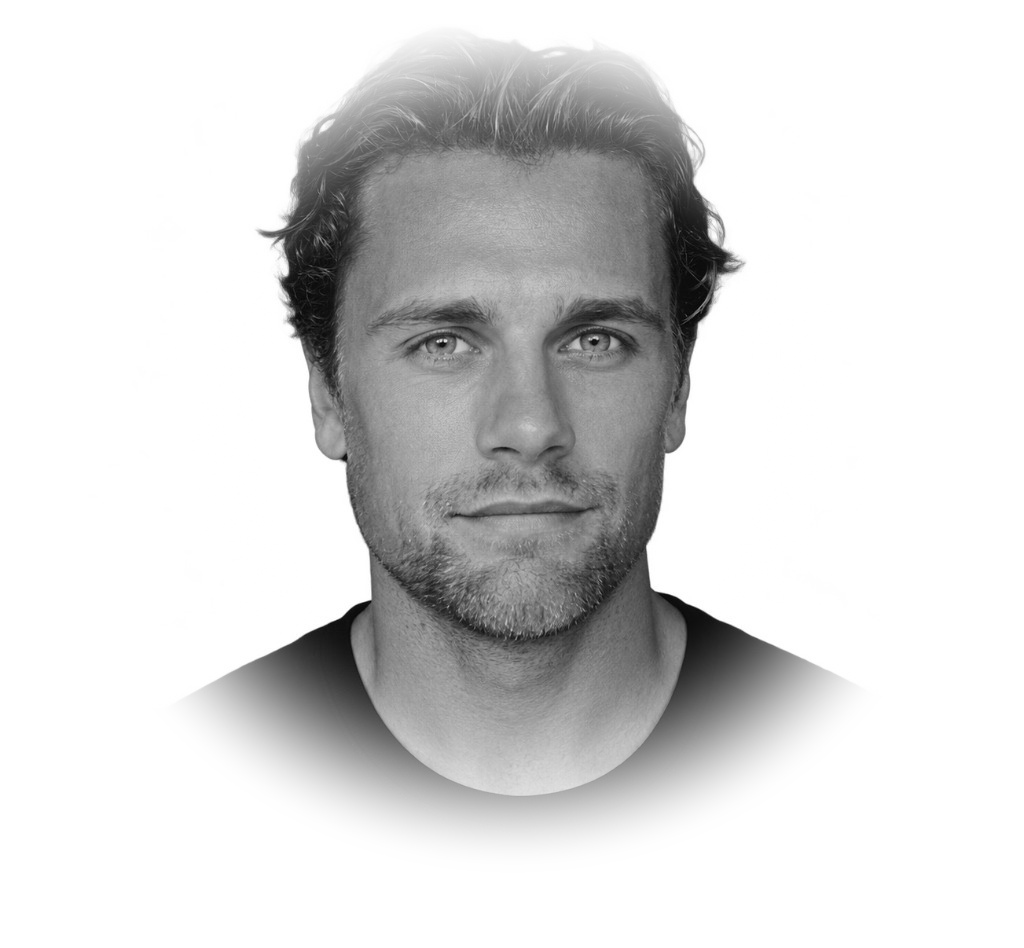
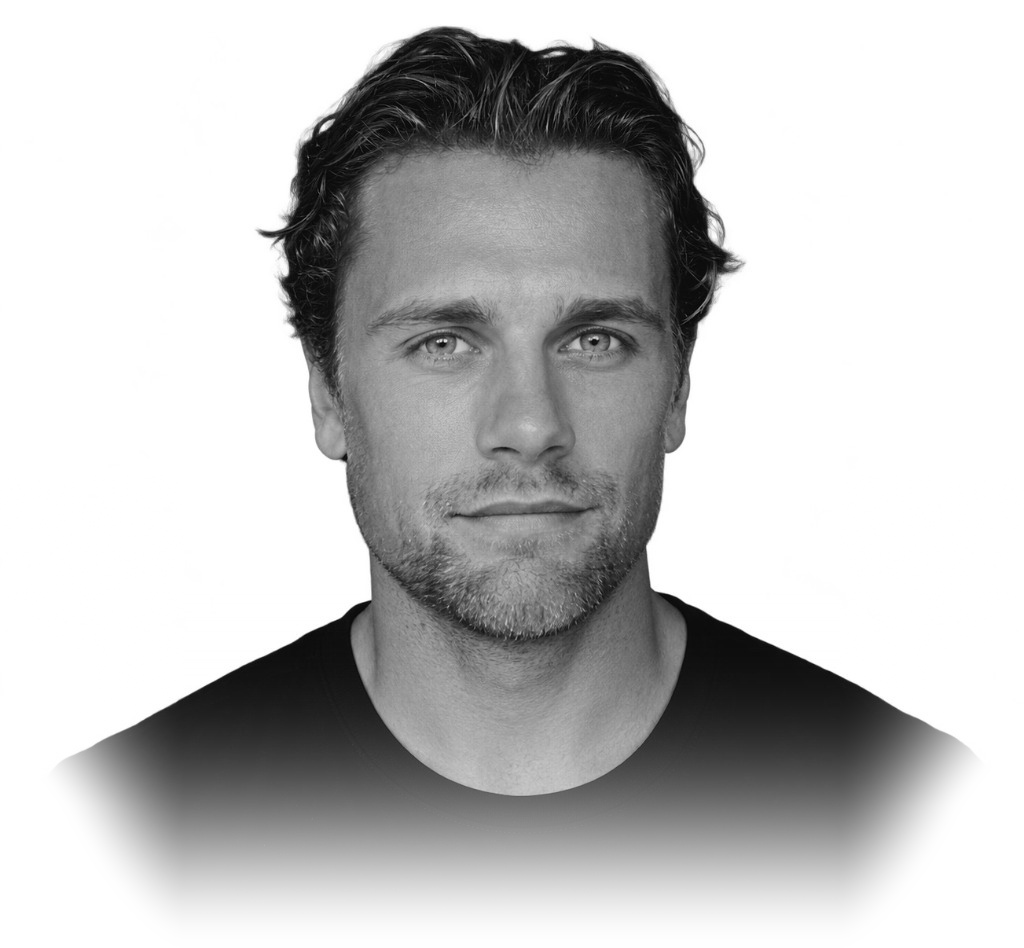
Enlarge portrait by 20% and keep hair crisp while softly fading lower torso into white

Changed region(s): [[0.0625, 0.6424, 0.9688, 0.9483], [0.25, 0.0306, 0.6875, 0.2753]]

diff --git a/styles.css b/styles.css
@@ -104,8 +104,8 @@ body {
 
 /* Portrait Image */
 .portrait-container {
-  margin-top: 2rem;
-  margin-bottom: 2.5rem;
+  margin-top: 1.5rem;
+  margin-bottom: 2rem;
   display: flex;
   justify-content: center;
   align-items: center;
@@ -113,7 +113,7 @@ body {
 }
 
 .hero-portrait {
-  width: clamp(280px, 40vw, 390px);
+  width: clamp(330px, 48vw, 470px);
   max-width: 100%;
   height: auto;
   display: block;
